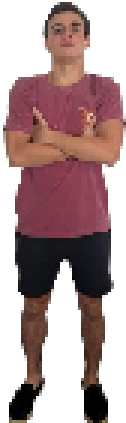
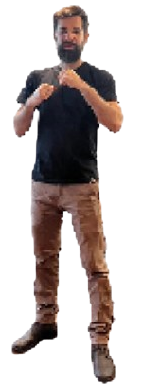
Novo Personagem

diff --git a/personagens.py b/personagens.py
@@ -26,7 +26,7 @@ face_area_list=[]
 Fullbody_list=[]
 Full_list1={}
 Full_list2={}
-list_characters=['Fred Tio','Alekinho','Baiano','NiGOATlas','Leo Messi','J Viddy','Old Serra','Mr Fein','Fogaca','Marcio desoft','Pelicano','Dani Livros','Gabigol','Cauezada','Irmaozin','Ninja 1','Ninja 2','Ninja 3','Gagui','Juba']
+list_characters=['Fred Tio','Alekinho','Baiano','NiGOATlas','Leo Messi','J Viddy','Old Serra','Mr Fein','Fogaca','Marcio desoft','Pelicano','Dani Livros','TheNatDes','Cauezada','Irmaozin','Ninja 1','Ninja 2','Ninja 3','Gagui','Juba']
 for characters in range(20):
     Characimage = pygame.image.load(f'images/personagensface/Personagem{characters}.png')
     Fullbody = pygame.image.load(f'images/personagensfp/FullPerson{characters}.png')
